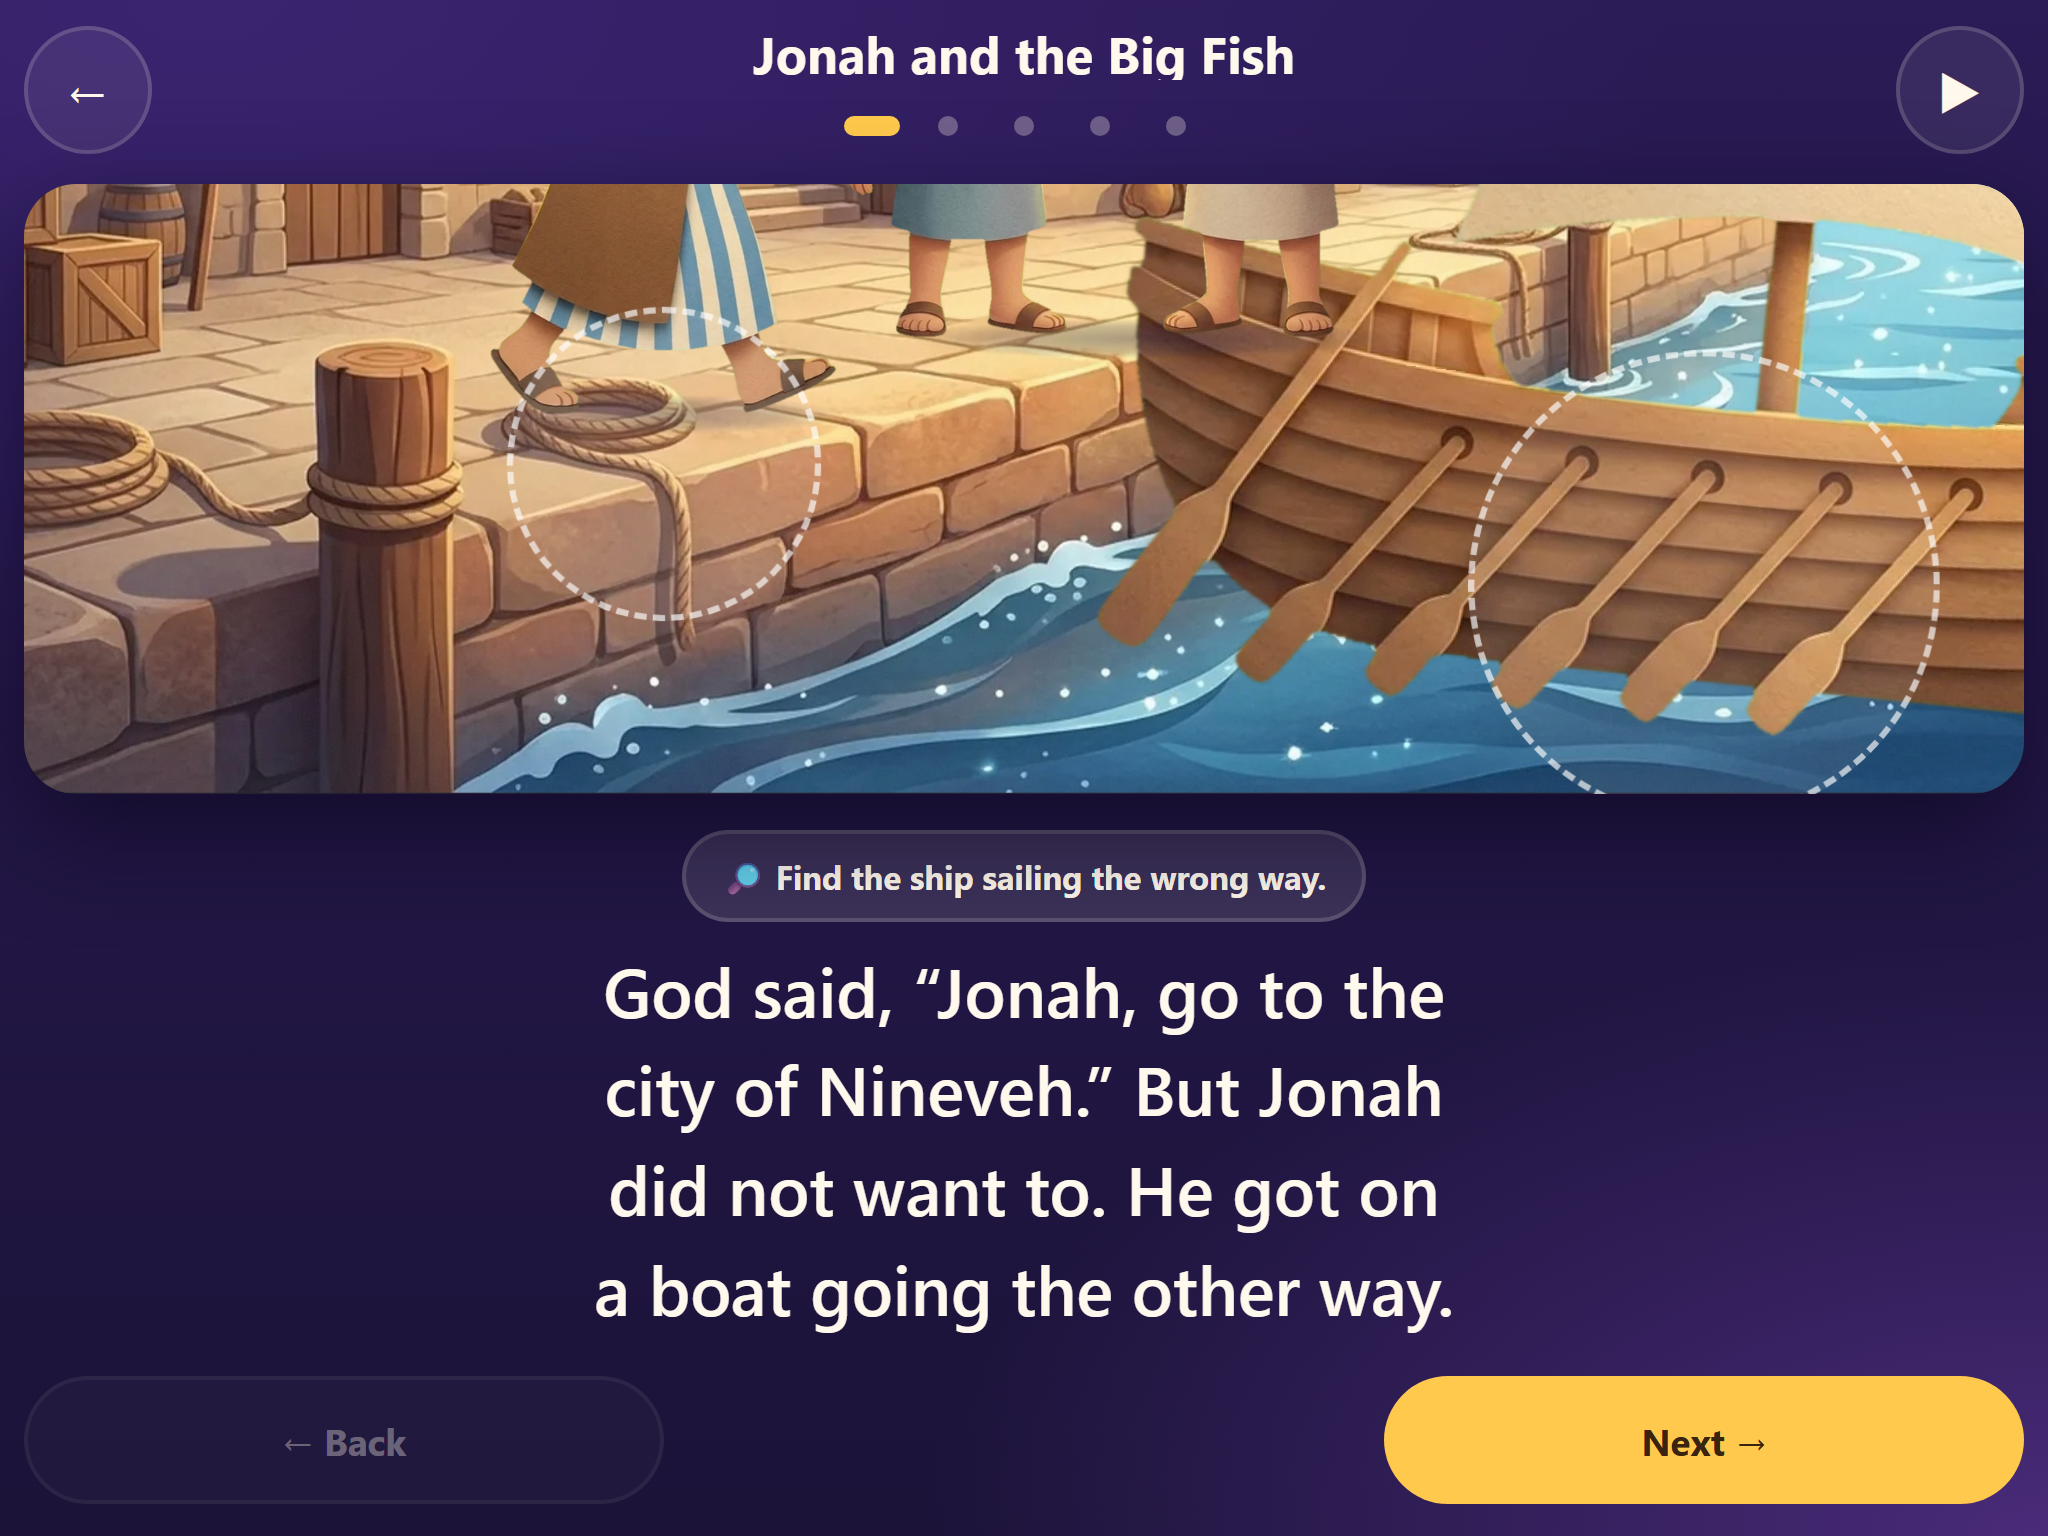
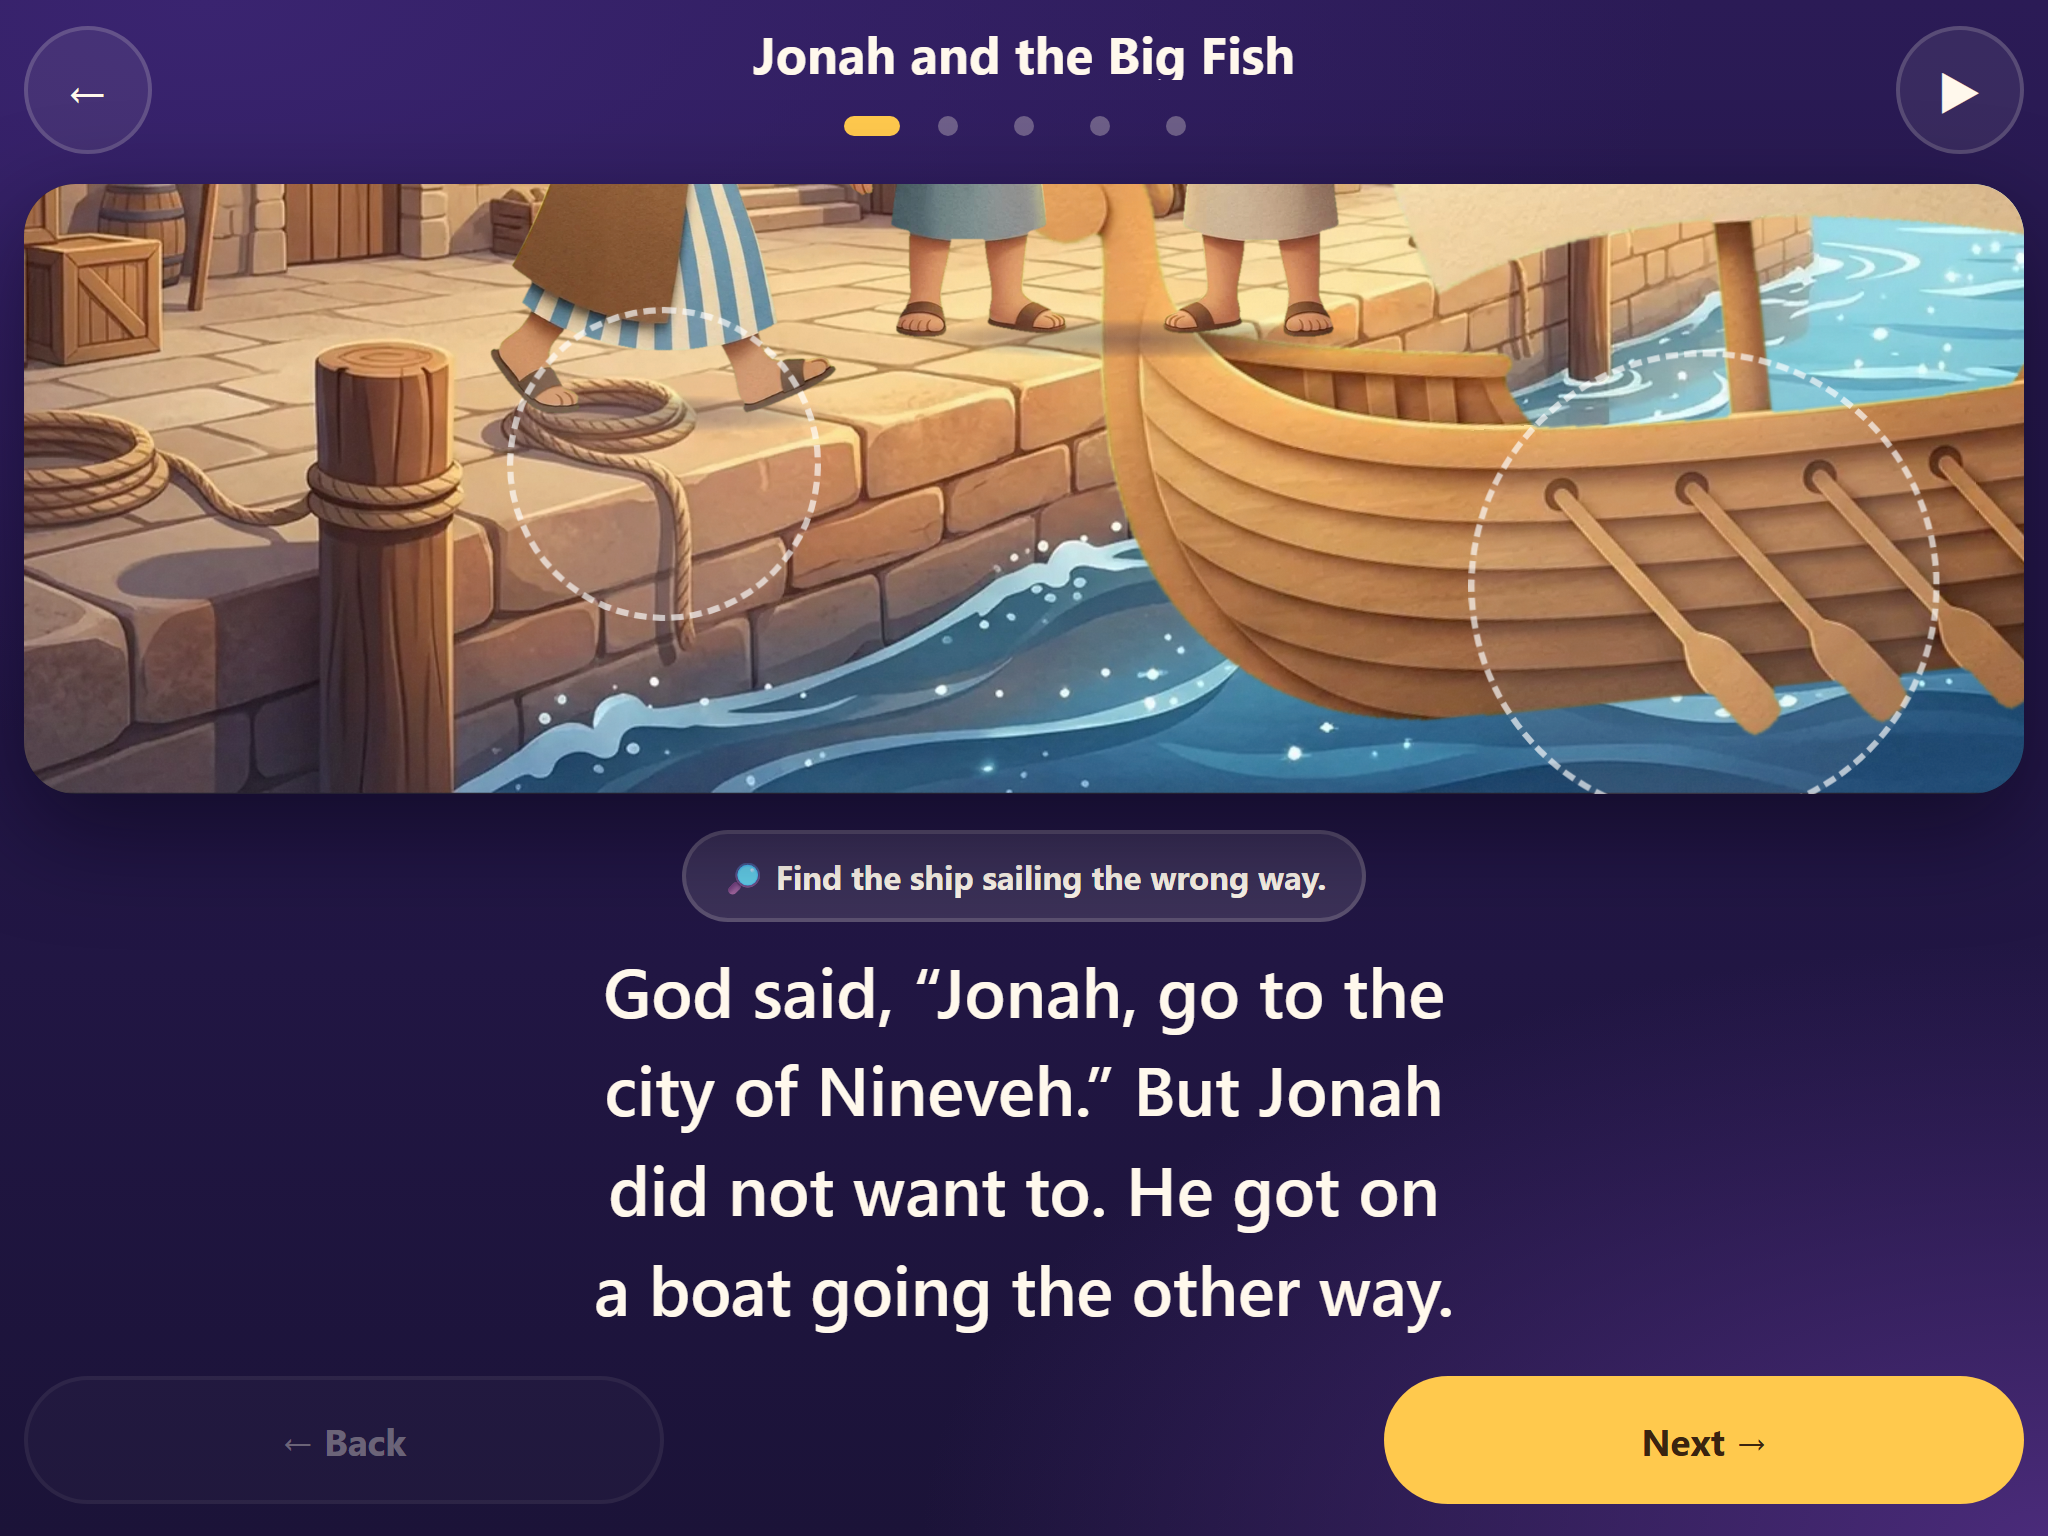
Keep the harbour sailors clear of the ship's prow and draw the ship in front

Changed region(s): [[0.5, 0.0938, 1.0, 0.5]]

diff --git a/src/scenes/jonah.tsx b/src/scenes/jonah.tsx
@@ -60,20 +60,20 @@ export function RunningAway({ found }: SceneArtProps) {
   return (
     <>
       <Backdrop src={runBg} />
-      {/* the ship rides at the quay's edge, on the water, prow to the left: west, away from Nineveh */}
-      <g transform="translate(870 612) scale(-1 1)">
-        <g className="a-rock">
-          <image href={runShip} x={-L.ship.w * 0.44} y={-L.ship.h * 0.88} width={L.ship.w * 0.88} height={L.ship.h * 0.88} />
-        </g>
-      </g>
-      <SoftShadow x={560} y={398} rx={120} ry={10} opacity={0.4} />
-      <Layer src={runSailors} w={L.sailors.w} h={L.sailors.h} x={560} y={398} scale={0.44} className="a-breathe-slow">
+      <SoftShadow x={470} y={402} rx={120} ry={10} opacity={0.4} />
+      <Layer src={runSailors} w={L.sailors.w} h={L.sailors.h} x={470} y={402} scale={0.44} className="a-breathe-slow">
         <Eyelids {...EYES.sailors} w={L.sailors.w} h={L.sailors.h} delay={2.1} />
       </Layer>
       <SoftShadow x={320} y={436} rx={90} ry={10} opacity={0.4} />
       <Layer src={runJonah} w={L["jonah-walk"].w} h={L["jonah-walk"].h} x={320} y={436} scale={0.37} className="a-breathe">
         <Eyelids {...EYES.jonahWalk} w={L["jonah-walk"].w} h={L["jonah-walk"].h} />
       </Layer>
+      {/* the ship, nearer the viewer than the quay, is drawn in front; prow to the left: west, away from Nineveh */}
+      <g transform="translate(905 616) scale(-1 1)">
+        <g className="a-rock">
+          <image href={runShip} x={-L.ship.w * 0.44} y={-L.ship.h * 0.88} width={L.ship.w * 0.88} height={L.ship.h * 0.88} />
+        </g>
+      </g>
       {found.includes("ship") && <Sparkle x={840} y={300} s={1.6} />}
       <Grain opacity={0.05} />
     </>

diff --git a/src/data/stories/jonah.ts b/src/data/stories/jonah.ts
@@ -28,8 +28,8 @@ export const jonah: Story = {
       hotspots: [
         {
           id: "ship",
-          x: 84,
-          y: 66,
+          x: 86,
+          y: 68,
           size: 30,
           label: "the ship",
           reward:
@@ -61,7 +61,7 @@ export const jonah: Story = {
       hotspots: [
         {
           id: "sailors",
-          x: 56,
+          x: 47,
           y: 42,
           size: 22,
           label: "the frightened sailors",

diff --git a/docs/evidence/2026-09-18-jonah-story-raster/cycles.md b/docs/evidence/2026-09-18-jonah-story-raster/cycles.md
@@ -13,3 +13,4 @@ Pass = characters match the Jonah sheet, scene reads as the same book, hotspots 
 | 05 | running | P | running-render.png | figures moved up onto the quay top (feet at y 478 and 398 against an edge that runs from ~540 at the left to ~330 at the right); ship 0.88 moored at the quay edge |
 | 06 | running | P | running-feet-zoom.png | Jonah moved back from the edge onto the flat stone at (320,436) scale 0.37; feet on flagstones |
 | 07 | running | P | running-render.png | ship mirrored so the prow points left (west, away from Nineveh) to match the hotspot text |
+| 08 | running | P | running-render.png | sailors moved left of the prow (470,402); ship drawn in front of the figures since it is nearer the viewer than the quay; ship at (905,616) |
